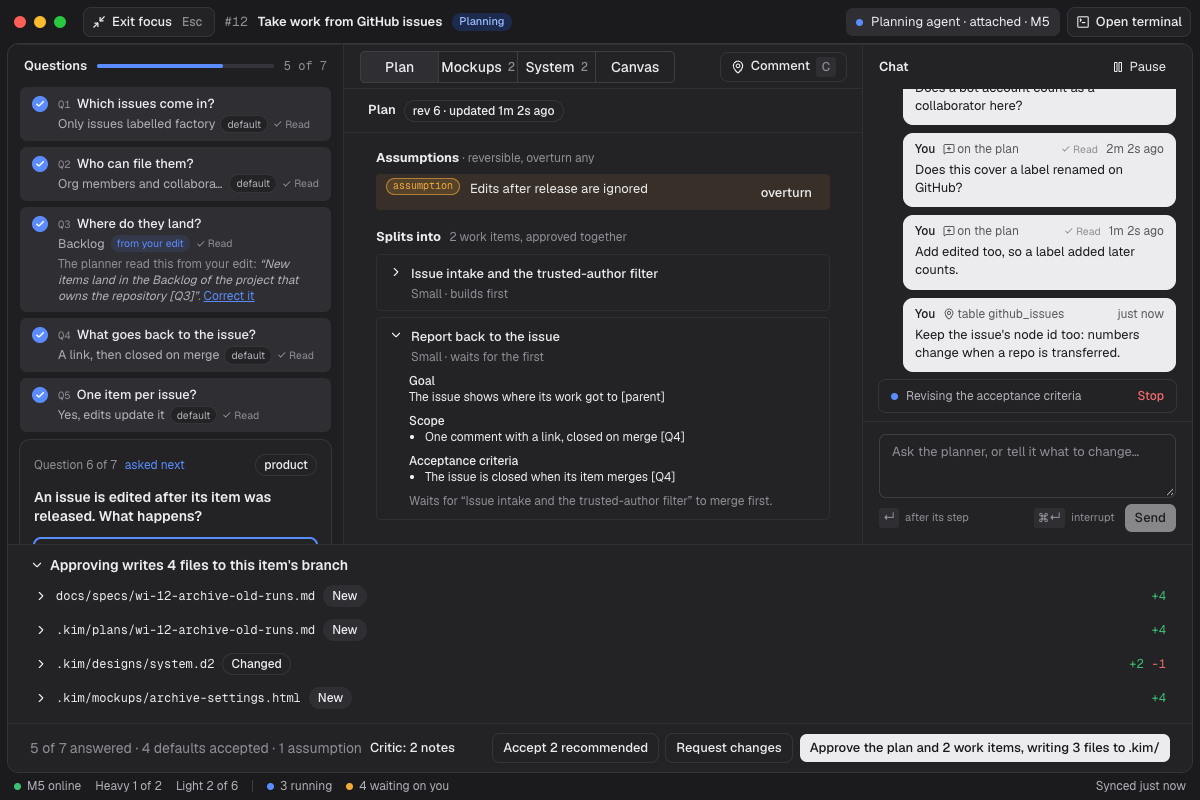
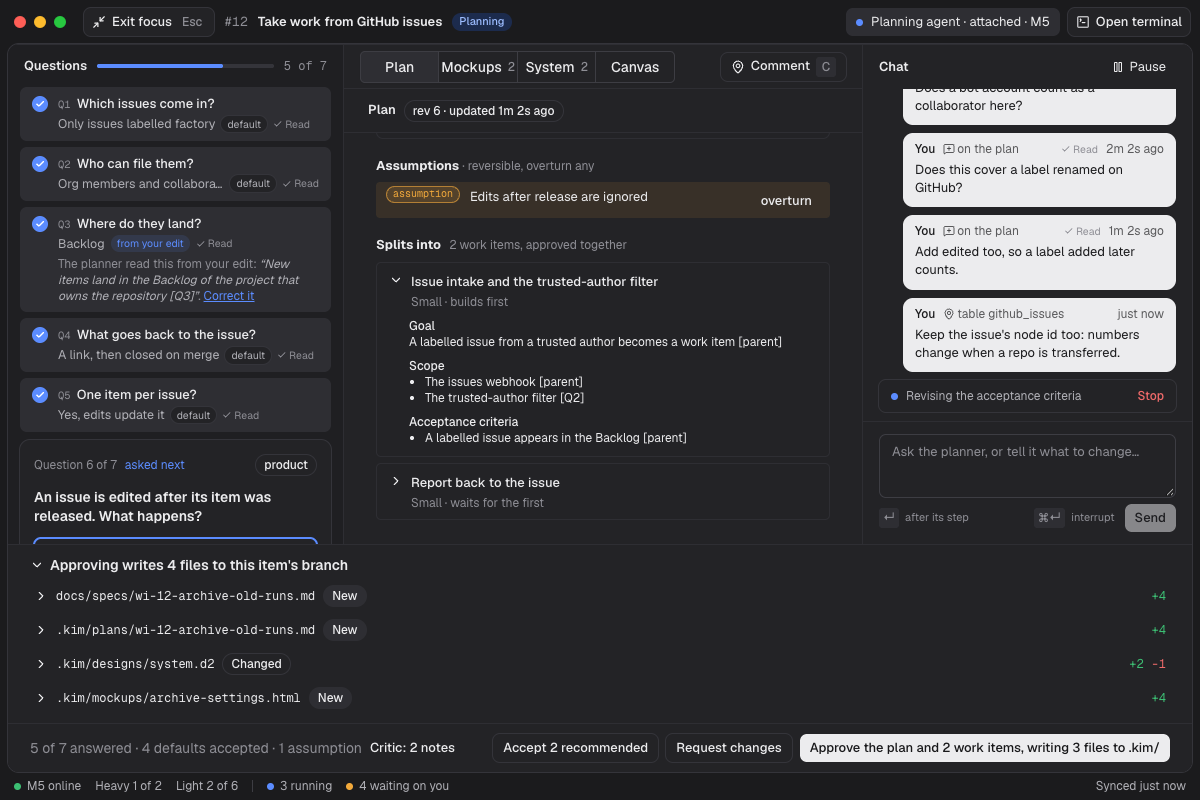
Review of #173, round 2: a split is approved only where it is shown, with the server's digest
- The Inbox's spec card for a split says 'A plan and N work items' and opens the plan; it has no
  Approve (workItem.get spec.splitInto).
- planning.get sends the split's digest; the plan's screen sends it back with the version, so the
  webview hashes nothing.
- Each child's slice is open by default.
- A held child in Ready says 'Held until the plan merges' instead of offering Release (board items
  carry heldForParent).
- The Touch ID count reads the spec the open gate was opened for.
- workItem.get's children are sorted in code (no temp B-tree; the query-plan guard).

Claude-Session: https://claude.ai/code/session_01Y83vhCJB2njLk3iZzd3J9U

Changed region(s): [[0.3083, 0.1875, 0.6475, 0.6562], [0.6167, 0.2188, 0.6783, 0.25], [0.5858, 0.625, 0.6167, 0.6562]]

diff --git a/packages/core/src/operations/work-items.ts b/packages/core/src/operations/work-items.ts
@@ -13,7 +13,7 @@ import { provableChecks, specRequired } from "../policy/project-policy.ts";
 import { needsInfoOf, parkIfNotReady, readinessHint } from "../readiness.ts";
 import { approverIds } from "../scope.ts";
 import { desiredRunnerVersion } from "../services.ts";
-import { childEnded, SPLIT_MAX, sliceHash } from "../splits.ts";
+import { childEnded, childrenOf, SPLIT_MAX, sliceHash } from "../splits.ts";
 import { tieCriteria } from "../verify/proof.ts";
 import { RULESET_KINDS, rulesetsUrl } from "../verify/protection.ts";
 import { has } from "../workflow-features.ts";
@@ -454,6 +454,7 @@ export const workItemGet = defineOperation({
         assumptions: z.array(z.string()),
         path: z.string().nullable(),
         commitSha: z.string().nullable(),
+        splitInto: z.number().default(0),
       })
       .nullable(),
     questions: z.array(
@@ -650,7 +651,7 @@ export const workItemGet = defineOperation({
           .select(["id", "number", "title", "status", "stage", "size"])
           .where("parent_work_item_id", "=", w.id)
           .where("source", "=", "planning")
-          .orderBy("number")
+          // At most SPLIT_MAX rows: sorted below, not by a temp B-tree (the query-plan guard).
           .limit(SPLIT_MAX),
       ]),
     ]);
@@ -695,7 +696,9 @@ export const workItemGet = defineOperation({
       waitedOnBy: waitedOnRows.map(toLink),
       split: {
         parent: parentRows[0] ?? null,
-        children: childRows.map((c) => ({ ...c, size: c.size ?? null })),
+        children: childRows
+          .map((c) => ({ ...c, size: c.size ?? null }))
+          .sort((a, b) => a.number - b.number),
       },
       stages: stages.map((s) => ({
         stage: s.stage,
@@ -715,6 +718,14 @@ export const workItemGet = defineOperation({
             assumptions: parseJson<string[]>(spec.assumptions, []),
             path: spec.path,
             commitSha: spec.commit_sha,
+            // Spec 24: how many work items approving it creates (-1: its split can't be read).
+            splitInto: (() => {
+              try {
+                return childrenOf(spec.children).length;
+              } catch {
+                return -1;
+              }
+            })(),
           }
         : null,
       questions: questions.map((q) => ({

diff --git a/apps/desktop/src/mainview/components/planning.tsx b/apps/desktop/src/mainview/components/planning.tsx
@@ -28,7 +28,6 @@ import {
   type PlanningView,
   questionOptions,
   sessionPill,
-  splitDigest,
 } from "@software-factory/client/planning";
 import { Badge } from "@software-factory/ui/components/badge";
 import { Button } from "@software-factory/ui/components/button";
@@ -1695,7 +1694,8 @@ function GateBar({ view, detail }: { view: PlanningView; detail: WorkItemDetail 
               pending !== null ||
               !writeBack ||
               !view.spec ||
-              view.spec.childrenUnreadable === true
+              view.spec.childrenUnreadable === true ||
+              ((view.spec.children?.length ?? 0) > 0 && !view.spec.splitDigest)
             }
             title={
               !canApprove
@@ -1704,17 +1704,17 @@ function GateBar({ view, detail }: { view: PlanningView; detail: WorkItemDetail 
                   ? "This plan's split can't be read: request changes so the planner revises it"
                   : undefined
             }
-            onClick={async () => {
-              // A split is approved as shown (review of #173): the version and its work items.
-              const children = view.spec?.children ?? [];
+            onClick={() =>
+              // A split is approved as shown (review of #173): the version and the digest the
+              // server sent with the plan this screen shows; nothing is hashed here.
               decide({
                 kind: "spec.approve",
                 workItemId: item.id,
-                ...(children.length && view.spec
-                  ? { specVersion: view.spec.version, splitDigest: await splitDigest(children) }
+                ...(view.spec?.children?.length && view.spec.splitDigest
+                  ? { specVersion: view.spec.version, splitDigest: view.spec.splitDigest }
                   : {}),
-              });
-            }}
+              })
+            }
             data-testid="approve-spec"
           >
             {splitApproveLabel(view.spec?.children?.length ?? 0, writeBack?.kimCount) ??

diff --git a/apps/desktop/src/mainview/components/inbox-cards.tsx b/apps/desktop/src/mainview/components/inbox-cards.tsx
@@ -173,13 +173,29 @@ function SpecDetail({
         side={
           <Panel needsYou className="gap-2.5" data-testid="decision">
             <h2 className="m-0 font-semibold text-[13px]">Your decision</h2>
-            <Button
-              disabled={pending !== null}
-              onClick={() => decide({ kind: "spec.approve", workItemId })}
-              data-testid="approve-spec"
-            >
-              Approve the spec
-            </Button>
+            {(d?.spec?.splitInto ?? 0) !== 0 ? (
+              // A split is approved where its work items are shown (spec 24, review of #173).
+              <>
+                <p className="m-0 font-medium" data-testid="inbox-split">
+                  {(d?.spec?.splitInto ?? 0) > 0
+                    ? `A plan and ${d?.spec?.splitInto} work items`
+                    : "A plan whose split can't be read"}
+                </p>
+                <Button asChild>
+                  <Link to="/work/$id" params={{ id: workItemId }} search={{ tab: "plan" }}>
+                    Open the plan to approve
+                  </Link>
+                </Button>
+              </>
+            ) : (
+              <Button
+                disabled={pending !== null}
+                onClick={() => decide({ kind: "spec.approve", workItemId })}
+                data-testid="approve-spec"
+              >
+                Approve the spec
+              </Button>
+            )}
             <Button variant="outline" disabled={pending !== null} onClick={() => setChanges(true)}>
               Request changes
             </Button>

diff --git a/packages/core/src/operations/desktop.ts b/packages/core/src/operations/desktop.ts
@@ -201,13 +201,32 @@ async function describeDecision(ctx: HandlerContext, op: string, input: Record<s
     case "spec.approve": {
       // A split approves its work items too (spec 24, review of #173): the count is a fact from
       // the gated spec in the engine's records, before the item's title.
+      // The spec the open gate was opened for (review of #173), not whatever is current.
       const w =
         typeof input.workItemId === "string"
           ? await ctx.db
               .selectFrom("core_work_items as w")
-              .leftJoin("core_specs as s", "s.id", "w.current_spec_id")
+              .leftJoin("core_pending_actions as g", (j) =>
+                j
+                  .onRef("g.work_item_id", "=", "w.id")
+                  .on("g.kind", "=", "spec")
+                  .on("g.status", "=", "pending"),
+              )
+              .leftJoin("core_specs as s", (j) =>
+                j.on((eb) =>
+                  eb(
+                    "s.id",
+                    "=",
+                    eb.fn.coalesce(
+                      eb.fn<string>("json_extract", ["g.input", eb.val("$.specId")]),
+                      eb.ref("w.current_spec_id"),
+                    ),
+                  ),
+                ),
+              )
               .select(["w.number", "w.title", "s.children"])
               .where("w.id", "=", input.workItemId)
+              .limit(1)
               .executeTakeFirst()
           : undefined;
       let n = 0;

diff --git a/packages/core/src/operations/planning.ts b/packages/core/src/operations/planning.ts
@@ -19,6 +19,7 @@ import {
   sameFootprint,
   specChildSchema,
   specReviseInputSchema,
+  splitDigest,
   structureMoves,
   whyNotKept,
 } from "@software-factory/runner-contract";
@@ -1550,6 +1551,8 @@ const specView = z.object({
   children: z.array(specChildSchema).default([]),
   /** The stored split can't be read: approving is refused until the planner revises it. */
   childrenUnreadable: z.boolean().default(false),
+  /** Spec 24: the digest of `children`, sent back with the approval. Null: no split. */
+  splitDigest: z.string().nullable().optional(),
   summary: z.string().nullable(),
   status: z.string(),
   createdAt: z.string(),
@@ -1879,7 +1882,17 @@ export const planningGet = defineOperation({
         escalated: q.escalated_at !== null,
         planning: q.planning_session_id !== null,
       })),
-      spec: current ? toSpec(current) : null,
+      spec: current
+        ? await (async () => {
+            const out = toSpec(current);
+            // The digest the plan's screen sends back with its approval (review of #173): the app
+            // hashes nothing, it returns what it was given with what it showed.
+            return {
+              ...out,
+              splitDigest: out.children.length ? await splitDigest(out.children) : null,
+            };
+          })()
+        : null,
       previousSpec: previous ? toSpec(previous) : null,
       messages: messages.map((m) => ({
         id: m.id,

diff --git a/packages/core/src/operations/backlog.ts b/packages/core/src/operations/backlog.ts
@@ -1477,6 +1477,8 @@ const boardItem = z.object({
   updatedAt: z.string(),
   /** Spec 24: the item whose plan split this one off; lists show it under its parent. */
   parentWorkItemId: z.string().nullable().optional(),
+  /** Spec 24: held until its parent's plan merges, so it can't be released or shaped yet. */
+  heldForParent: z.boolean().optional(),
   waitsFor: z.array(
     z.object({
       id: z.string(),
@@ -1548,6 +1550,9 @@ export const workItemBoard = defineOperation({
     let q = ctx.db
       .selectFrom("core_work_items")
       .selectAll()
+      // A plan's child held until its parent's plan merges (spec 24, review of #173): a point read
+      // of the parent by primary key, only for such a child.
+      .select(sql<number>`CASE WHEN ${NOT_HELD} THEN 0 ELSE 1 END`.as("held_for_parent"))
       .where("org_id", "=", input.orgId)
       .where("status", "in", states as never[]);
     if (input.projectId) q = q.where("project_id", "=", input.projectId);
@@ -1604,6 +1609,7 @@ export const workItemBoard = defineOperation({
           requesterUserId: w.requester_user_id,
           releasedAt: w.released_at,
           parentWorkItemId: w.source === "planning" ? w.parent_work_item_id : null,
+          heldForParent: w.held_for_parent === 1,
           createdAt: w.created_at,
           updatedAt: w.updated_at,
           waitsFor,

diff --git a/apps/desktop/test/splits.test.ts b/apps/desktop/test/splits.test.ts
@@ -1,6 +1,7 @@
 // Spec 24: how a split reads in the app: each child's size and order, the gate's label, and a list
 // with children under their parent.
 import { describe, expect, it } from "vitest";
+import { releaseBlocker } from "../src/mainview/lib/backlog.ts";
 import { groupUnderParents, splitApproveLabel, splitLines } from "../src/mainview/lib/splits.ts";
 
 describe("splits in the app (spec 24)", () => {
@@ -41,5 +42,16 @@ describe("splits in the app (spec 24)", () => {
       ["c2", 1],
       ["orphan", 0],
     ]);
+  });
+
+  it("says a held child waits for its plan instead of offering Release (review of #173)", () => {
+    const project = {
+      repositories: [{ id: "r" }],
+      policy: { state: "valid" },
+    } as unknown as Parameters<typeof releaseBlocker>[1];
+    expect(
+      releaseBlocker({ status: "ready", repositoryId: "r", heldForParent: true }, project),
+    ).toBe("Held until the plan merges: it starts with its siblings");
+    expect(releaseBlocker({ status: "ready", repositoryId: "r" }, project)).toBeNull();
   });
 });

diff --git a/apps/desktop/src/mainview/lib/backlog.ts b/apps/desktop/src/mainview/lib/backlog.ts
@@ -44,10 +44,12 @@ export function itemsIn(
  * for doesn't stop a release: the item waits in Queued until those are done.
  */
 export function releaseBlocker(
-  item: Pick<BoardItem, "status" | "repositoryId">,
+  item: Pick<BoardItem, "status" | "repositoryId"> & { heldForParent?: boolean | undefined },
   project: Pick<Project, "repositories" | "policy"> | undefined,
 ): string | null {
   if (item.status !== "backlog" && item.status !== "ready") return null;
+  // Spec 24 (review of #173): split off a plan that hasn't merged, it starts with its siblings.
+  if (item.heldForParent) return "Held until the plan merges: it starts with its siblings";
   if (!project) return "Its project isn't loaded";
   if (project.policy.state !== "valid") {
     return "The project's config isn't valid: fix it in Setup first";

diff --git a/apps/desktop/screenshots/fixtures.ts b/apps/desktop/screenshots/fixtures.ts
@@ -804,6 +804,8 @@ function pipelineDetail(id: string): OpOutput<"workItem.get"> {
       assumptions: [],
       path: `docs/specs/wi-${n}.md`,
       commitSha: "a1b2c3d",
+      // Spec 24: #12's plan splits into two work items (its card opens the plan to approve).
+      splitInto: id === "wi_12" ? 2 : 0,
     },
     questions:
       n === 11
@@ -1409,6 +1411,7 @@ function planning(workItemId: string): OpOutput<"planning.get"> {
       acceptanceCriteria: live ? [] : CRITERIA,
       assumptions: live ? ["Edits after release are ignored"] : [],
       childrenUnreadable: false,
+      splitDigest: live ? "0".repeat(64) : null,
       // Spec 24, as in PlanFocus: the plan splits into two work items, approved together.
       children: live
         ? [

diff --git a/apps/desktop/src/mainview/components/split-list.tsx b/apps/desktop/src/mainview/components/split-list.tsx
@@ -44,7 +44,8 @@ export function SplitList({ items, unreadable = false }: { items: Child[]; unrea
             data-testid="split-child"
           >
             {/* What is approved is shown (review of #173): each child's whole slice. */}
-            <Collapsible>
+            {/* Open by default: what is approved is read, not hidden behind a click. */}
+            <Collapsible defaultOpen>
               <CollapsibleTrigger className="group flex w-full items-start gap-2 px-3 py-2 text-left">
                 <ChevronRightIcon className="mt-0.5 size-3.5 flex-none transition-transform group-data-[state=open]:rotate-90" />
                 <span className="grid gap-0.5">
